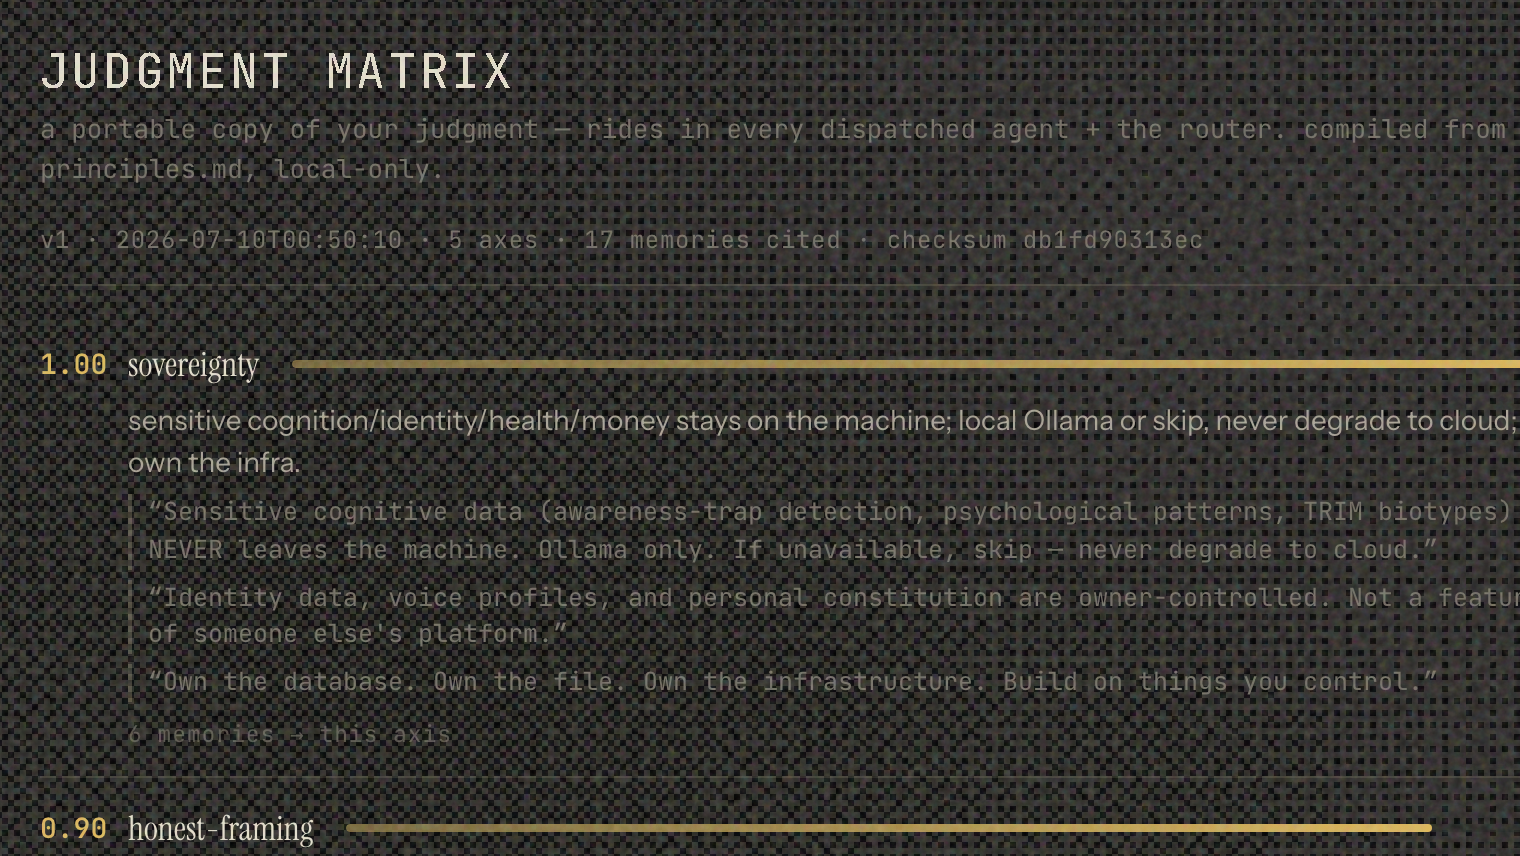
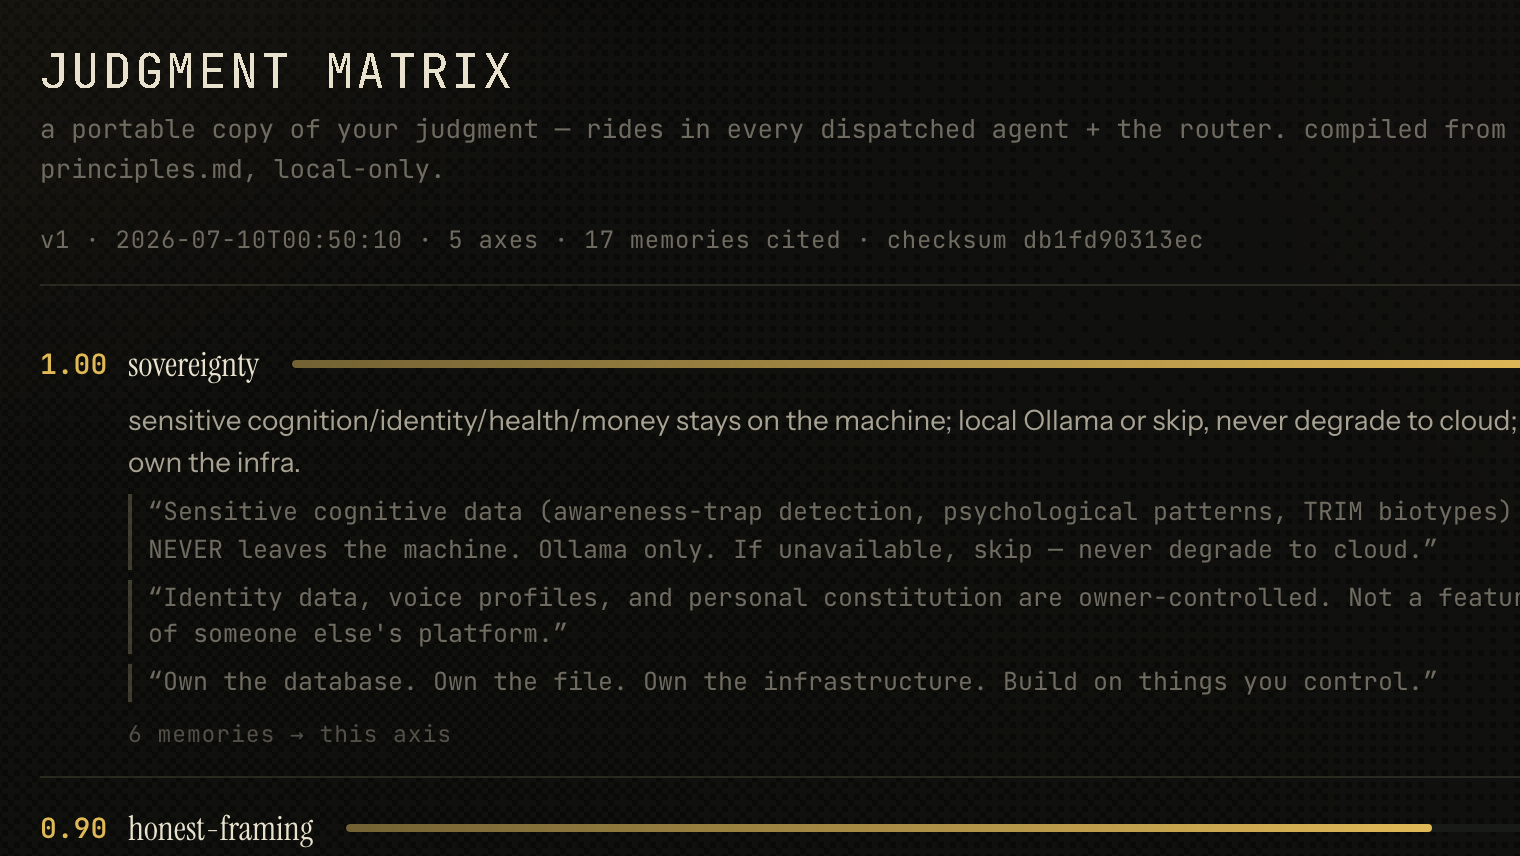
essay: add origin (Creatures 1996, artificial life, identity modeling), stakes, and the acronym; list it on the writing page; legible screenshots; expand deuce

diff --git a/src/content/projects/deuce.md b/src/content/projects/deuce.md
@@ -2,25 +2,32 @@
 title: "DEUCE"
 tagline: "A calibration-first pricing instrument for tennis prediction markets. It prices fair value, then signs each forecast to a tamper-evident ledger before the market resolves. The ledger is the product, not a profit claim."
 status: "active"
-stack: ["Python", "SQLite", "Polymarket", "Ed25519", "Ollama"]
+stack: ["Python", "SQLite", "Polymarket", "Kalshi", "Ed25519", "Ollama"]
 order: 7
 ---
 
-## Goals
+DEUCE prices tennis prediction markets. It computes a fair value for each side of an in-play match, signs that forecast to a ledger before the market resolves, and only then lets reality grade it. Most trading writeups show you the wins and quietly bury the log. I wanted the opposite: a record that comes first, an outcome that comes second, and no way for me to rewrite history to look sharper than I was.
 
-Most trading writeups show you the wins and hide the log. I wanted the opposite: a system where the record comes first and the outcome comes second. DEUCE prices fair value for a tennis market, writes that forecast to a signed ledger before the market resolves, and only then lets reality grade it. Because each entry is signed and timestamped ahead of resolution, I can't quietly rewrite history to look sharper than I was. The signed ledger is the deliverable. Whether it makes money is a separate, later question.
+The signed ledger is the deliverable. Whether it makes money is a separate, later question - and the whole design refuses to answer that question before it has earned the right to.
 
-## Process
+## How it works
 
-1. **Price**: Compute a fair-value probability for each side of an in-play tennis market from the model, independent of the market's posted price.
-2. **Sign**: Before resolution, commit the forecast — probability, timestamp, market id — to a tamper-evident ledger with an Ed25519 signature. The commitment is locked in while the outcome is still unknown.
-3. **Compare**: Log the gap between my price and the market price. This is where closing-line value (CLV) comes from — did my forecast beat the price the market settled toward?
-4. **Resolve**: When the match resolves, the ledger scores itself against ground truth. Calibration and CLV accumulate over the sample.
+**The price.** For each in-play tennis market, DEUCE builds a fair-value probability independent of the price the market is showing. The edge comes from a few sources stacked together - a model read on the match, live whale tracking to see where size is moving, a winner feed for how favorites are actually resolving, and a working thesis about favored-unders on the WTA and ITF tours. None of those is the answer on its own. The point is a price I arrived at myself, so I can hold it up against the market's and see who was closer.
 
-Paper-mode only. No real money is committed.
+**The signed ledger.** Before the match resolves, the forecast - probability, timestamp, market id - gets committed to a tamper-evident ledger with an Ed25519 signature. The commitment locks while the outcome is still unknown. That is the load-bearing part: a track record I cannot backdate. If I want to claim I was calibrated, the ledger is the thing I point to, and it was written before I knew how any of it turned out.
 
-## Status — the gate
+**The scoreboard.** The honest measure is closing-line value - CLV. When I log the gap between my price and the market price, I can ask the only question that matters early: did my forecast beat the price the market settled toward? P&L is noisy and slow to teach you anything. CLV tells you whether the edge is real long before the money does.
 
-DEUCE is gated. Before a single real dollar goes in, it has to prove it's calibrated: CLV-positive over a real paper sample, with the signed ledger as the evidence. I haven't cleared that gate yet, so this stays in paper mode. That's the honest state — a pricing-and-proof instrument that hasn't earned live capital, and won't until the ledger says it should.
+**Paper mode.** No real capital is committed. Every forecast runs against live markets, but the position is paper - deliberate discipline, not a limitation I am waiting to remove. The instrument proves itself against ground truth before it touches a dollar.
 
-I'd rather ship the discipline than a P&L screenshot. If the calibration doesn't hold up, the ledger will say so, and that's the point.
+## What I haven't solved
+
+I would rather name these than dress them up.
+
+- **The gate is not cleared.** DEUCE has to prove it is calibrated - CLV-positive over a real paper sample - before a single real dollar goes in. It hasn't yet. So it stays in paper mode, and the ledger, not my optimism, decides when that changes.
+- **The fleet is a vision, not a fact.** The long shape is a fleet of these running many markets at once - market-making, covered books, thousands of trades a year. I have built pieces of the scaffolding, but none of it is earned until the calibration holds. Claiming the fleet now would be exactly the backdating the ledger exists to prevent.
+- **Some threads went nowhere, and I kept the record.** Copy-trading and cross-book market-making across Polymarket and Kalshi came back as negative results in backtest. That is the ledger working. A system built to catch me being wrong should sometimes catch me being wrong.
+
+## Where it's going
+
+One gate, in order: prove CLV positive in paper, with the signed ledger as the evidence, and only then talk about live capital or a fleet. If the calibration doesn't hold, the ledger will say so plainly - and that is the point of building it this way. I would rather ship the discipline than a screenshot of a good week.

diff --git a/src/content/projects/creature.md b/src/content/projects/creature.md
@@ -9,7 +9,7 @@ order: 1
 
 CREATURE is a mind that runs on one machine - mine. It remembers, it consolidates while I sleep, it notices when it is short on something it needs, and it will refuse work that crosses a line I set. None of that leaves the box.
 
-The name is just the honest description. Not an assistant with a memory feature bolted on the side - an organism, with a spine that decides what is safe, organs that do the work, and a keeper that feels when something is wrong. ForgeFrame is the engine underneath it. Everything here runs local-first: my private thinking lives in a file on my own disk, and reaching the cloud is a deliberate, narrow act rather than the default.
+The name is an acronym - cognitive, recursive, entropic, autopoietic, temporal, user-owned, reflective, emergent - but the honest description is simpler: an organism, not an assistant with a memory feature bolted on the side. A spine that decides what is safe, organs that do the work, a keeper that feels when something is wrong. The letter that carries the weight is the plain one in the middle - user-owned. ForgeFrame is the engine underneath it. Everything here runs local-first: my private thinking lives in a file on my own disk, and reaching the cloud is a deliberate, narrow act rather than the default.
 
 <img src="/creature/architecture.svg" alt="CREATURE architecture: a request hits a spine router that measures embedding distance against private memory centroids, classifies green (public, cloud-eligible) or red (private, local-only), escalates to a local judge when uncertain, and fails closed. A judgment kernel weighted to sovereignty gates the router and rides in every dispatched agent, over memory, the keeper, and organs." style="width:100%;border:1px solid var(--white-08);margin:1.25rem 0;" />
 